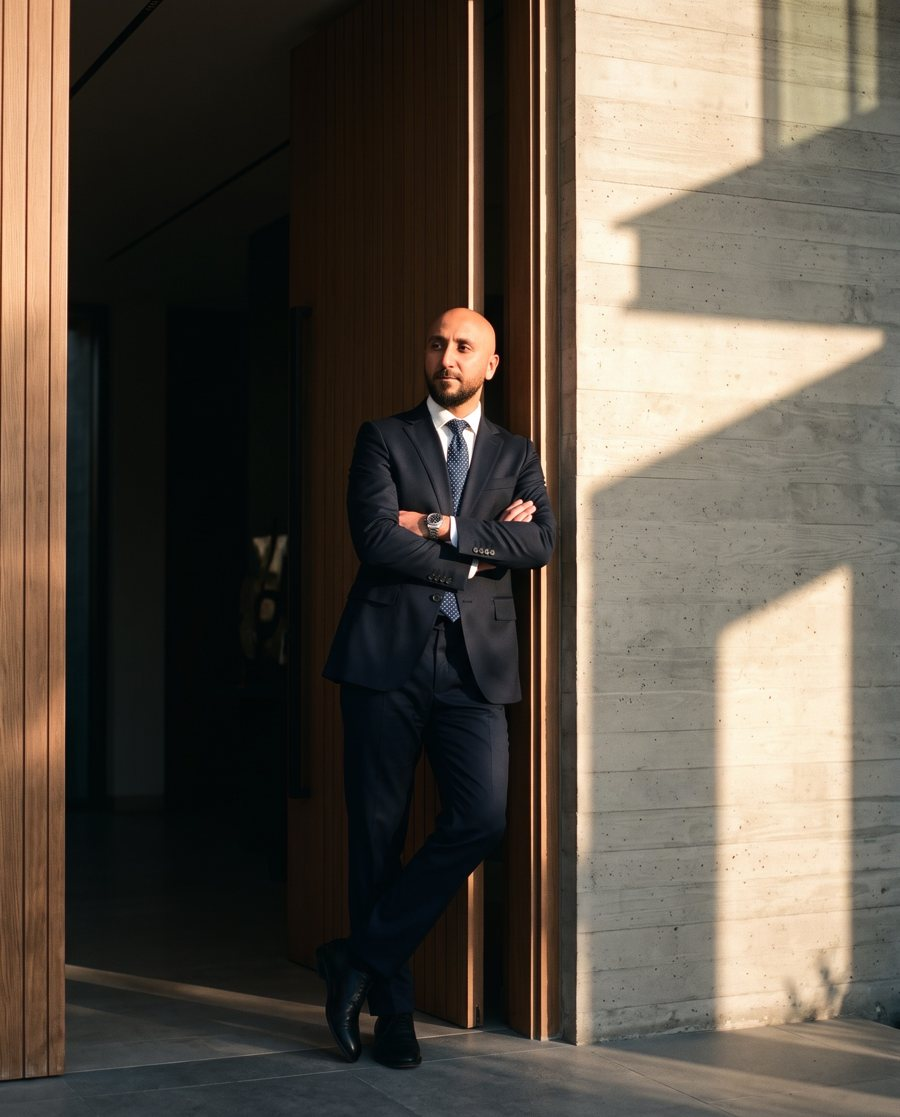
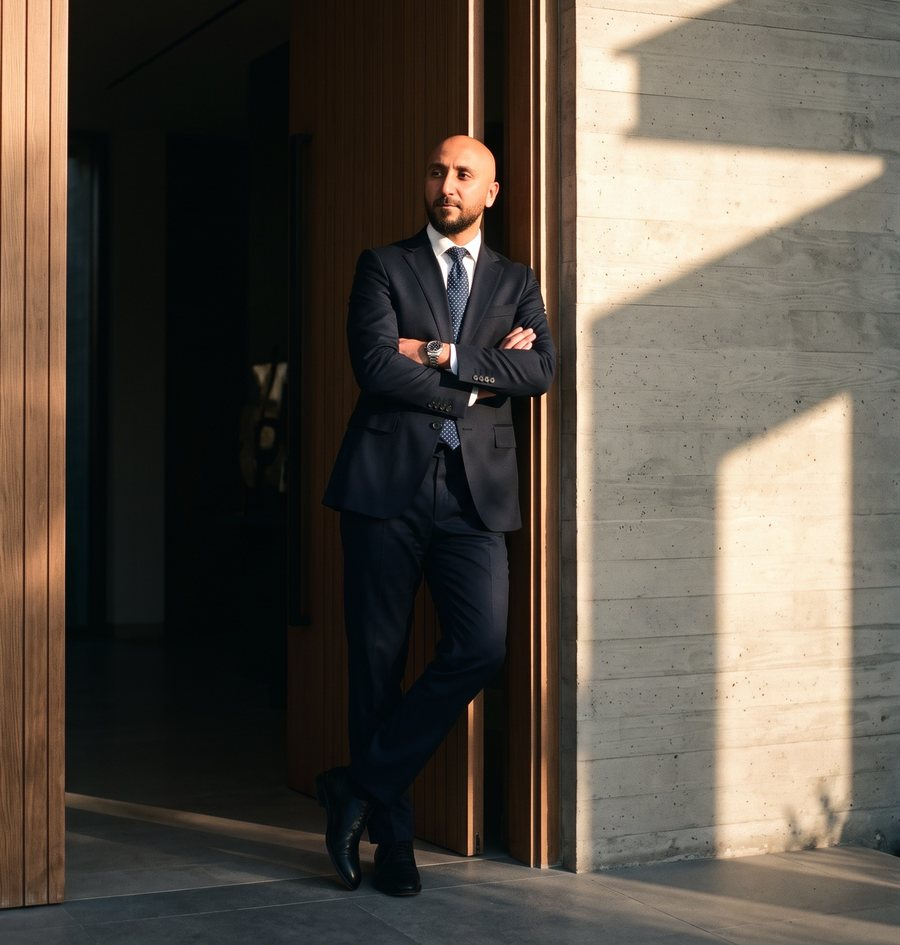
About: new photo, spacing tweaks
Claude-Session: https://claude.ai/code/session_01NZWgyMctNajpkwUE9adJah

diff --git a/about/index.html b/about/index.html
@@ -21,7 +21,7 @@
 <link rel="preconnect" href="https://fonts.gstatic.com" crossorigin>
 <link rel="preload" as="style" href="https://fonts.googleapis.com/css2?family=Jost:wght@200;300;400;500&family=Poppins:wght@200;300&display=swap" onload="this.onload=null;this.rel='stylesheet'">
 <noscript><link href="https://fonts.googleapis.com/css2?family=Jost:wght@200;300;400;500&family=Poppins:wght@200;300&display=swap" rel="stylesheet"></noscript>
-<link rel="stylesheet" href="/assets/site.css?v=dc559fc4">
+<link rel="stylesheet" href="/assets/site.css?v=f9ca7cea">
 <script async src="https://www.googletagmanager.com/gtag/js?id=G-7T2ZSYNG70"></script>
 <script>
 window.dataLayer=window.dataLayer||[];function gtag(){dataLayer.push(arguments)}
@@ -166,7 +166,7 @@ document.addEventListener('DOMContentLoaded',function(){run(document);try{new Mu
         <p>I take the time to understand your priorities, respect your privacy and stay involved from our first conversation and stay available&nbsp;afterwards.</p>
         <div class="ab-chat"><p>Whether you’re buying or selling in The Oasis, let’s have a&nbsp;chat.</p></div>
       </div></div>
-        </div><div class="ht-r"><img src="/images/baraa-c.jpg" alt="Baraa Noura, The Oasis Specialist, overlooking the lagoon at sunset" width="900" height="1117" decoding="async"><div class="find-socials hm-soc">
+        </div><div class="ht-r"><img src="/images/baraa-c.jpg" alt="Baraa Noura, The Oasis Specialist, overlooking the lagoon at sunset" width="900" height="945" decoding="async"><div class="find-socials hm-soc">
         <h3>Find My&nbsp;Socials</h3>
         <div class="about-links">
           <a class="al" href="https://whatsapp.com/channel/0029Vb97PL1GehEEMwQ4053S" target="_blank" rel="noopener"><svg viewBox="0 0 24 24" aria-hidden="true"><path d="M4 9.5 V14.5 H7 L13 18.5 V5.5 L7 9.5 Z" fill="none" stroke="currentColor" stroke-width="1.3" stroke-linecap="round" stroke-linejoin="round"/><path d="M16 9 C17.3 10.3 17.3 13.7 16 15 M18.5 7 C21 9.5 21 14.5 18.5 17" fill="none" stroke="currentColor" stroke-width="1.3" stroke-linecap="round" stroke-linejoin="round"/></svg>WhatsApp Channel</a>

diff --git a/assets/site.css b/assets/site.css
@@ -1470,6 +1470,7 @@ h1,h2,h3,h4,.btn,.cp-src,.cp-txt{text-wrap:balance}h1.pg-h{text-wrap:balance}
 .ab-hero .ab-title{margin:0 !important;line-height:1}
 .ab-hero .ht-l .hm-t .ab-body{margin-top:auto}
 .ab-hero .ht-r img{aspect-ratio:440/520 !important;object-position:50% 25% !important}@media(max-width:900px){.ab-hero .ht-l{padding-bottom:0}.ab-hero .ht-r img{aspect-ratio:5/4 !important}}.ab-hero .ht-r .hm-soc{grid-column:1/-1 !important;justify-self:center;width:100%;max-width:640px}@media(max-width:900px){.ab-hero .ht-r .hm-soc{max-width:none}}.ab-chat{display:flex;align-items:center;gap:18px;flex-wrap:wrap}.ab-chat p{margin:0 !important}.ab-call{display:inline-flex;align-items:center;gap:8px;padding:0 20px;min-height:42px;white-space:nowrap}.ab-call svg{width:17px;height:17px}.ab-hero{overflow-x:clip}.ab-hero .hero-top::after{width:100vw;justify-self:start;margin-left:calc(50% - 50vw)}@media(max-width:900px){.ab-hero .ht-r .hm-soc{border-top:1px solid var(--line)}}@media(max-width:900px){.ab-hero .ht-l,.ab-hero .ht-l .hm-t,.ab-hero .ht-r{display:contents !important}.ab-hero .ht-r img{order:1;width:100%;aspect-ratio:4/5 !important;max-height:none;object-position:50% 30% !important}.ab-hero .ab-title{order:2;margin-top:8px !important}.ab-hero .ab-body{order:3;margin-top:0 !important}.ab-hero .ht-r .hm-soc{order:4}.ab-hero .hero-top{gap:18px}}@media(min-width:901px){.cb-fab{right:44px !important;bottom:30px !important}}
+.ab-hero .ht-l .hm-t{justify-content:flex-start !important;height:auto !important}.ab-hero .ht-l .hm-t .ab-body{margin-top:34px !important}.ab-hero .ht-l{justify-content:flex-start !important}@media(max-width:900px){.ab-hero .hero-top{gap:0 !important}.ab-hero .ht-l .hm-t .ab-title{margin:26px 0 0 !important}.ab-hero .ht-l .hm-t .ab-body{margin-top:26px !important}.ab-hero .ht-r .hm-soc{margin-top:22px !important}}
 .lp-soon{text-align:center;font-size:12px;letter-spacing:.34em;text-transform:uppercase;color:var(--brass);margin:0 0 14px}
 
 .lp-media{max-width:720px;margin:0 auto 30px !important}

diff --git a/404.html b/404.html
@@ -1,4 +1,4 @@
-<!doctype html><html lang="en" data-theme="dark"><head><meta charset="utf-8"><meta name="viewport" content="width=device-width, initial-scale=1"><title>Page Not Found | The Oasis Specialist</title><meta name="robots" content="noindex"><link rel="stylesheet" href="/assets/site.css?v=dc559fc4">
+<!doctype html><html lang="en" data-theme="dark"><head><meta charset="utf-8"><meta name="viewport" content="width=device-width, initial-scale=1"><title>Page Not Found | The Oasis Specialist</title><meta name="robots" content="noindex"><link rel="stylesheet" href="/assets/site.css?v=f9ca7cea">
 <style>.nf{min-height:100vh;display:flex;flex-direction:column;align-items:center;justify-content:center;text-align:center;padding:40px 20px;gap:18px}.nf .k{font-size:13px;letter-spacing:.3em;color:var(--brass)}.nf h1{font-size:clamp(32px,5vw,52px);margin:0}.nf p{color:var(--muted);max-width:46ch;margin:0}.nf .b{display:flex;gap:12px;flex-wrap:wrap;justify-content:center;margin-top:10px}.nf .btn-solid{background:var(--brass);color:var(--bg)}.nf .brand-n{font-family:"Poppins",var(--display);font-weight:300;letter-spacing:.2em;color:var(--water);font-size:18px;text-decoration:none}</style></head>
 <body style="background:var(--bg)"><main class="nf"><a class="brand-n" href="/">BARAA NOURA · THE OASIS SPECIALIST</a><p class="k">404</p><h1>This page doesn't&nbsp;exist</h1><p>The link may be old or mistyped. Here are the best places to&nbsp;continue.</p>
 <div class="b"><a class="btn btn-solid" href="/">Home</a><a class="btn btn-line" href="/clusters/">Clusters</a><a class="btn btn-line" href="/tools/villa-finder/">Villa Finder</a><a class="btn btn-line" href="/articles/">Articles</a><a class="btn btn-line" href="https://wa.me/971521325215?text=Hi%20Baraa%2C%20I%27m%20interested%20in%20The%20Oasis." target="_blank" rel="noopener">WhatsApp Me</a></div></main></body></html>

diff --git a/articles/cost-of-buying-a-villa-in-the-oasis/index.html b/articles/cost-of-buying-a-villa-in-the-oasis/index.html
@@ -21,7 +21,7 @@
 <link rel="preconnect" href="https://fonts.gstatic.com" crossorigin>
 <link rel="preload" as="style" href="https://fonts.googleapis.com/css2?family=Jost:wght@200;300;400;500&family=Poppins:wght@200;300&display=swap" onload="this.onload=null;this.rel='stylesheet'">
 <noscript><link href="https://fonts.googleapis.com/css2?family=Jost:wght@200;300;400;500&family=Poppins:wght@200;300&display=swap" rel="stylesheet"></noscript>
-<link rel="stylesheet" href="/assets/site.css?v=dc559fc4">
+<link rel="stylesheet" href="/assets/site.css?v=f9ca7cea">
 <script async src="https://www.googletagmanager.com/gtag/js?id=G-7T2ZSYNG70"></script>
 <script>
 window.dataLayer=window.dataLayer||[];function gtag(){dataLayer.push(arguments)}

diff --git a/articles/golf-courses-near-the-oasis/index.html b/articles/golf-courses-near-the-oasis/index.html
@@ -21,7 +21,7 @@
 <link rel="preconnect" href="https://fonts.gstatic.com" crossorigin>
 <link rel="preload" as="style" href="https://fonts.googleapis.com/css2?family=Jost:wght@200;300;400;500&family=Poppins:wght@200;300&display=swap" onload="this.onload=null;this.rel='stylesheet'">
 <noscript><link href="https://fonts.googleapis.com/css2?family=Jost:wght@200;300;400;500&family=Poppins:wght@200;300&display=swap" rel="stylesheet"></noscript>
-<link rel="stylesheet" href="/assets/site.css?v=dc559fc4">
+<link rel="stylesheet" href="/assets/site.css?v=f9ca7cea">
 <script async src="https://www.googletagmanager.com/gtag/js?id=G-7T2ZSYNG70"></script>
 <script>
 window.dataLayer=window.dataLayer||[];function gtag(){dataLayer.push(arguments)}

diff --git a/articles/how-buying-a-villa-in-the-oasis-works/index.html b/articles/how-buying-a-villa-in-the-oasis-works/index.html
@@ -21,7 +21,7 @@
 <link rel="preconnect" href="https://fonts.gstatic.com" crossorigin>
 <link rel="preload" as="style" href="https://fonts.googleapis.com/css2?family=Jost:wght@200;300;400;500&family=Poppins:wght@200;300&display=swap" onload="this.onload=null;this.rel='stylesheet'">
 <noscript><link href="https://fonts.googleapis.com/css2?family=Jost:wght@200;300;400;500&family=Poppins:wght@200;300&display=swap" rel="stylesheet"></noscript>
-<link rel="stylesheet" href="/assets/site.css?v=dc559fc4">
+<link rel="stylesheet" href="/assets/site.css?v=f9ca7cea">
 <script async src="https://www.googletagmanager.com/gtag/js?id=G-7T2ZSYNG70"></script>
 <script>
 window.dataLayer=window.dataLayer||[];function gtag(){dataLayer.push(arguments)}

diff --git a/articles/index.html b/articles/index.html
@@ -21,7 +21,7 @@
 <link rel="preconnect" href="https://fonts.gstatic.com" crossorigin>
 <link rel="preload" as="style" href="https://fonts.googleapis.com/css2?family=Jost:wght@200;300;400;500&family=Poppins:wght@200;300&display=swap" onload="this.onload=null;this.rel='stylesheet'">
 <noscript><link href="https://fonts.googleapis.com/css2?family=Jost:wght@200;300;400;500&family=Poppins:wght@200;300&display=swap" rel="stylesheet"></noscript>
-<link rel="stylesheet" href="/assets/site.css?v=dc559fc4">
+<link rel="stylesheet" href="/assets/site.css?v=f9ca7cea">
 <script async src="https://www.googletagmanager.com/gtag/js?id=G-7T2ZSYNG70"></script>
 <script>
 window.dataLayer=window.dataLayer||[];function gtag(){dataLayer.push(arguments)}

diff --git a/articles/is-the-oasis-a-good-investment/index.html b/articles/is-the-oasis-a-good-investment/index.html
@@ -21,7 +21,7 @@
 <link rel="preconnect" href="https://fonts.gstatic.com" crossorigin>
 <link rel="preload" as="style" href="https://fonts.googleapis.com/css2?family=Jost:wght@200;300;400;500&family=Poppins:wght@200;300&display=swap" onload="this.onload=null;this.rel='stylesheet'">
 <noscript><link href="https://fonts.googleapis.com/css2?family=Jost:wght@200;300;400;500&family=Poppins:wght@200;300&display=swap" rel="stylesheet"></noscript>
-<link rel="stylesheet" href="/assets/site.css?v=dc559fc4">
+<link rel="stylesheet" href="/assets/site.css?v=f9ca7cea">
 <script async src="https://www.googletagmanager.com/gtag/js?id=G-7T2ZSYNG70"></script>
 <script>
 window.dataLayer=window.dataLayer||[];function gtag(){dataLayer.push(arguments)}

diff --git a/articles/palmiera-villa-resold-32-percent/index.html b/articles/palmiera-villa-resold-32-percent/index.html
@@ -21,7 +21,7 @@
 <link rel="preconnect" href="https://fonts.gstatic.com" crossorigin>
 <link rel="preload" as="style" href="https://fonts.googleapis.com/css2?family=Jost:wght@200;300;400;500&family=Poppins:wght@200;300&display=swap" onload="this.onload=null;this.rel='stylesheet'">
 <noscript><link href="https://fonts.googleapis.com/css2?family=Jost:wght@200;300;400;500&family=Poppins:wght@200;300&display=swap" rel="stylesheet"></noscript>
-<link rel="stylesheet" href="/assets/site.css?v=dc559fc4">
+<link rel="stylesheet" href="/assets/site.css?v=f9ca7cea">
 <script async src="https://www.googletagmanager.com/gtag/js?id=G-7T2ZSYNG70"></script>
 <script>
 window.dataLayer=window.dataLayer||[];function gtag(){dataLayer.push(arguments)}

diff --git a/articles/polo-and-equestrian-clubs-near-the-oasis/index.html b/articles/polo-and-equestrian-clubs-near-the-oasis/index.html
@@ -21,7 +21,7 @@
 <link rel="preconnect" href="https://fonts.gstatic.com" crossorigin>
 <link rel="preload" as="style" href="https://fonts.googleapis.com/css2?family=Jost:wght@200;300;400;500&family=Poppins:wght@200;300&display=swap" onload="this.onload=null;this.rel='stylesheet'">
 <noscript><link href="https://fonts.googleapis.com/css2?family=Jost:wght@200;300;400;500&family=Poppins:wght@200;300&display=swap" rel="stylesheet"></noscript>
-<link rel="stylesheet" href="/assets/site.css?v=dc559fc4">
+<link rel="stylesheet" href="/assets/site.css?v=f9ca7cea">
 <script async src="https://www.googletagmanager.com/gtag/js?id=G-7T2ZSYNG70"></script>
 <script>
 window.dataLayer=window.dataLayer||[];function gtag(){dataLayer.push(arguments)}

diff --git a/articles/schools-near-the-oasis/index.html b/articles/schools-near-the-oasis/index.html
@@ -21,7 +21,7 @@
 <link rel="preconnect" href="https://fonts.gstatic.com" crossorigin>
 <link rel="preload" as="style" href="https://fonts.googleapis.com/css2?family=Jost:wght@200;300;400;500&family=Poppins:wght@200;300&display=swap" onload="this.onload=null;this.rel='stylesheet'">
 <noscript><link href="https://fonts.googleapis.com/css2?family=Jost:wght@200;300;400;500&family=Poppins:wght@200;300&display=swap" rel="stylesheet"></noscript>
-<link rel="stylesheet" href="/assets/site.css?v=dc559fc4">
+<link rel="stylesheet" href="/assets/site.css?v=f9ca7cea">
 <script async src="https://www.googletagmanager.com/gtag/js?id=G-7T2ZSYNG70"></script>
 <script>
 window.dataLayer=window.dataLayer||[];function gtag(){dataLayer.push(arguments)}

diff --git a/articles/service-charges-in-the-oasis/index.html b/articles/service-charges-in-the-oasis/index.html
@@ -21,7 +21,7 @@
 <link rel="preconnect" href="https://fonts.gstatic.com" crossorigin>
 <link rel="preload" as="style" href="https://fonts.googleapis.com/css2?family=Jost:wght@200;300;400;500&family=Poppins:wght@200;300&display=swap" onload="this.onload=null;this.rel='stylesheet'">
 <noscript><link href="https://fonts.googleapis.com/css2?family=Jost:wght@200;300;400;500&family=Poppins:wght@200;300&display=swap" rel="stylesheet"></noscript>
-<link rel="stylesheet" href="/assets/site.css?v=dc559fc4">
+<link rel="stylesheet" href="/assets/site.css?v=f9ca7cea">
 <script async src="https://www.googletagmanager.com/gtag/js?id=G-7T2ZSYNG70"></script>
 <script>
 window.dataLayer=window.dataLayer||[];function gtag(){dataLayer.push(arguments)}
